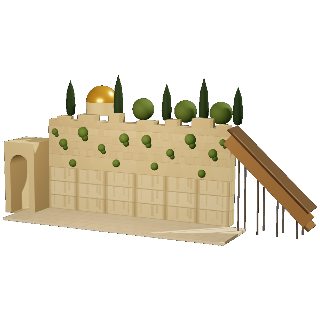
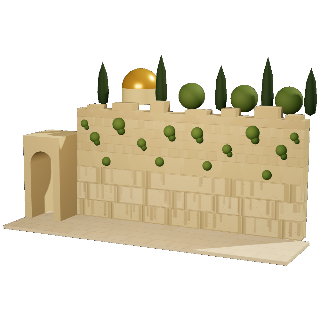
Jerusalem: the Holy Sepulchre on the Cardo; Western Wall stones and no bridge; finished monuments turn to face you
The Church of the Holy Sepulchre replaces the Tower of David as the
Cardo's monument, so each of the city's three faiths has its central
site (Dan, 27 Sept). Crusader front with twin doors and windows, the
ladder on the ledge, bell tower, and the Rotunda and Katholikon domes.
Its three facts are a DRAFT awaiting sign-off (JERUSALEM-FACTS-DRAFT.md).
The Tower of David stays defined for a fourth street, and on the Jaffa
Road skyline.

Western Wall: the Mughrabi bridge and its scaffolding are gone, and the
Herodian stones are large and very large, of different lengths, so the
joints interweave from course to course instead of forming a grid.

Every monument: once built, the view swings round to the front during
the celebration, whichever way it was left while building.

Changed region(s): [[0.0, 0.1562, 1.0, 0.8438]]

diff --git a/src/puzzle/landmarks.js b/src/puzzle/landmarks.js
@@ -630,13 +630,14 @@ const defs = {
   // courses of small stones at the top. Caper plants hang from the joints.
   // Above, the trees of the platform, and the gold Dome of the Rock
   // glimpsed behind on the left, as in every photograph of the place.
-  // Wilson's Arch opens at the left end; the wooden Mughrabi bridge climbs
-  // on its scaffolding on the right. No figures, partition or prayer notes.
+  // Wilson's Arch opens at the left end. Nothing modern: no bridge, no
+  // scaffolding, no figures, partition or prayer notes.
   kotel: [
-    B([0, 0.12, 3.2], [21, 0.24, 5.2], '#e4dac2', 'box', { tex: 'stone', tx: { cols: 14, rows: 4 } }),   // plaza
+    B([-1.3, 0.12, 3.2], [21.8, 0.24, 5.2], '#e4dac2', 'box', { tex: 'stone', tx: { cols: 14, rows: 4 } }),   // plaza
     // Herodian courses: three rows, each in two identical halves
+    // (each with its own layout of stones, so no two courses line up)
     ...[0, 1, 2].flatMap((row) => [-1, 1].map((side) => B([side * 4.5, 0.89 + row * 1.3, -row * 0.05],
-      [9, 1.3, 1.2], row === 1 ? '#dccfaa' : '#d6c9a2', 'box', { tex: 'herodian', tx: { cols: 3, rows: 1 } }))),
+      [9, 1.3, 1.2], row === 1 ? '#dccfaa' : '#d6c9a2', 'box', { tex: 'herodian', tx: { cols: 3, rows: 1, seed: row * 2 + (side > 0 ? 1 : 0) } }))),
     // the band of mid-sized stones, with the first caper plants
     ...[-1, 1].map((side) => B([side * 4.5, 4.74, -0.15], [9, 1.2, 1.2], '#cfc29c', 'box', {
       tex: 'stone', tx: { cols: 6, rows: 1 },
@@ -657,26 +658,6 @@ const defs = {
     }),
     // Wilson's Arch, opening at the left end of the plaza
     B([-10.6, 3.3, 1.2], [3.2, 6.6, 3.6], '#d2c49e', 'archvault'),
-    // the Mughrabi bridge: a covered wooden ramp on scaffolding, climbing
-    // from the plaza up to the gate at the top of the wall
-    // Seen side-on from the plaza it climbs diagonally from the right up to
-    // the gate at the top corner of the wall: deck, enclosed wooden sides,
-    // a roof, and the scaffolding it stands on.
-    B([12.8, 4.1, 0.8], [7.4, 6.8, 2.6], '#8a6a44', 'group', {
-      adorn: (() => {
-        const run = 7.0, rise = 6.4, th = -Math.atan2(rise, run), len = Math.hypot(run, rise);
-        const deckY = (x) => -x * (rise / run);          // deck height at x, relative
-        return [
-          B([0, 0, 0], [len, 0.22, 2.0], '#7a5c3a', 'box', { rotZ: th }),                      // deck
-          B([0, 1.5, 0], [len, 0.16, 2.4], '#5a4632', 'box', { rotZ: th }),                    // roof
-          B([0, 0.75, 1.0], [len, 1.3, 0.1], '#9a7a50', 'box', { rotZ: th }),                  // side facing the plaza
-          ...[-2.6, -0.9, 0.8, 2.5].flatMap((x) => [-0.8, 0.8].map((z) => {
-            const top = deckY(x) - 0.1, h = top + 4.0;                                        // down to the plaza
-            return B([x, top - h / 2, z], [0.14, h, 0.14], '#6e6e6e', 'cyl');
-          })),
-        ];
-      })(),
-    }),
     // above and behind: the trees of the platform, and the gold dome
     B([0, 10.0, -2.6], [20, 2.8, 3.0], '#c8b98e', 'group', {
       adorn: [
@@ -748,6 +729,72 @@ const defs = {
         B([0, 2.0, 0], [1.3, 1.3, 0.2], '#e8dcb4', 'torus', { rotX: Math.PI / 2 }),
         B([0, 3.9, 0], [0.9, 1.3, 0.9], '#d6c8a0', 'lathe', { profile: [[1, 0], [0.95, 0.4], [0.55, 0.85], [0, 1]] }),
         B([0, 5.0, 0], [0.1, 0.9, 0.1], '#f0e4bc', 'cyl', { metal: 1, em: '#ffd9a0', emI: 0.4 }),
+      ],
+    }),
+  ],
+  // The Church of the Holy Sepulchre, from its courtyard: the Crusader front
+  // of two storeys, twin arched doors below (the right one walled up) and
+  // twin arched windows above; the wooden ladder that has stood on the ledge
+  // over the entrance since at least the 1700s; the bell tower on the left,
+  // which lost its top storey long ago; and behind, the two grey domes, the
+  // great Rotunda over the tomb and the smaller Katholikon, each with its
+  // cross. Its facts are a draft awaiting Dan's sign-off (src/facts.js).
+  holysepulchre: [
+    B([0, 0.12, 3.0], [15, 0.24, 5.6], '#d8ccae', 'box', { tex: 'stone', tx: { cols: 10, rows: 4 } }),   // courtyard
+    // the mass of the church behind its front
+    B([0.5, 4.6, -5.6], [12, 9.2, 10.4], '#d0c29c', 'box', { tex: 'stone', tx: { cols: 9, rows: 8 } }),
+    // front, lower storey: the twin doorways
+    B([0, 2.6, 0], [9, 5.0, 1.2], '#dccfaa', 'extrude', {
+      outline: [[-0.5, -0.5], [0.5, -0.5], [0.5, 0.5], [-0.5, 0.5]],
+      holes: [{ x: -0.2, y: -0.08, w: 0.22, h: 0.8, arch: true }, { x: 0.2, y: -0.08, w: 0.22, h: 0.8, arch: true }],
+      adorn: [
+        B([-1.8, -0.4, -0.3], [1.9, 3.8, 0.2], '#4a3424'),                       // the open door, dark wood
+        B([1.8, -0.4, -0.2], [1.9, 3.8, 0.4], '#cbbd96', 'box', { tex: 'stone', tx: { cols: 2, rows: 4 } }),   // walled up
+      ],
+    }),
+    B([0, 5.35, 0.1], [9.4, 0.5, 1.5], '#e6dab8'),                              // the ledge between storeys
+    // front, upper storey: twin arched windows, and the ladder
+    B([0, 7.6, 0], [9, 4.0, 1.2], '#dccfaa', 'extrude', {
+      outline: [[-0.5, -0.5], [0.5, -0.5], [0.5, 0.5], [-0.5, 0.5]],
+      holes: [{ x: -0.2, y: 0.02, w: 0.18, h: 0.72, arch: true }, { x: 0.2, y: 0.02, w: 0.18, h: 0.72, arch: true }],
+      adorn: [
+        ...[-1.8, 1.8].map((x) => B([x, -0.1, -0.35], [1.6, 2.8, 0.2], '#2e3a48')),   // glass behind
+        // the ladder, leaning under the right-hand window
+        B([2.6, -1.05, 1.0], [0.9, 1.9, 0.5], '#7a5a36', 'group', {
+          rotX: -0.25,
+          adorn: [
+            ...[-0.36, 0.36].map((x) => B([x, 0, 0], [0.08, 1.9, 0.08], '#7a5a36')),
+            ...[-0.7, -0.3, 0.1, 0.5].map((y) => B([0, y, 0], [0.72, 0.06, 0.06], '#7a5a36')),
+          ],
+        }),
+      ],
+    }),
+    // the bell tower on the left, and its upper storey with arched openings
+    B([-6.2, 5.0, -0.4], [3.0, 10.0, 3.0], '#d4c6a0', 'box', { tex: 'stone', tx: { cols: 3, rows: 9 } }),
+    B([-6.2, 11.6, -0.4], [2.8, 3.2, 2.8], '#dccfaa', 'box', {
+      tex: 'stone', tx: { cols: 3, rows: 3 },
+      adorn: [[0, 1.42], [0, -1.42], [1.42, 0], [-1.42, 0]].map(([x, z]) => B([x, 0, z], [x ? 0.1 : 1.0, 1.8, z ? 0.1 : 1.0], '#2a2620')),
+    }),
+    // a chapel on the right with its small dome
+    B([6.2, 2.8, -0.6], [3.2, 5.6, 3.2], '#d4c6a0', 'box', {
+      tex: 'stone', tx: { cols: 3, rows: 5 },
+      adorn: [B([0, 2.8, 0], [2.4, 1.3, 2.4], '#9aa0a6', 'dome')],
+    }),
+    // the Katholikon's drum and dome, with its cross
+    B([3.0, 10.4, -5.0], [4.2, 2.2, 4.2], '#d8caa4', 'cyl', { tex: 'win', tx: { cols: 10, rows: 1 } }),
+    B([3.0, 11.5, -5.0], [4.4, 2.4, 4.4], '#8e949a', 'dome', {
+      adorn: [
+        B([0, 2.5, 0], [0.12, 1.1, 0.12], '#d8c070', 'box', { metal: 1 }),
+        B([0, 2.75, 0], [0.6, 0.1, 0.1], '#d8c070', 'box', { metal: 1 }),
+      ],
+    }),
+    // the great Rotunda over the tomb: drum, grey dome, lantern and cross
+    B([-3.4, 10.6, -8.0], [8.2, 2.8, 8.2], '#d8caa4', 'cyl', { tex: 'win', tx: { cols: 18, rows: 1 } }),
+    B([-3.4, 12.0, -8.0], [8.6, 5.0, 8.6], '#9298a0', 'dome', {
+      adorn: [
+        B([0, 4.6, 0], [1.2, 1.0, 1.2], '#d8caa4', 'cyl'),
+        B([0, 5.7, 0], [0.14, 1.4, 0.14], '#d8c070', 'box', { metal: 1 }),
+        B([0, 6.0, 0], [0.8, 0.12, 0.12], '#d8c070', 'box', { metal: 1 }),
       ],
     }),
   ],

diff --git a/src/puzzle/puzzle.js b/src/puzzle/puzzle.js
@@ -15,7 +15,7 @@ const CITY_OF = {
   bigben: 'london', towerbridge: 'london', eye: 'london',
   colosseum: 'rome', trevi: 'rome', pantheon: 'rome',
   ggbridge: 'sf', coit: 'sf', paintedladies: 'sf',
-  kotel: 'jerusalem', domerock: 'jerusalem', towerdavid: 'jerusalem',
+  kotel: 'jerusalem', domerock: 'jerusalem', towerdavid: 'jerusalem', holysepulchre: 'jerusalem',
 };
 // Plaza floors deliberately contrast their monuments. Every landmark in the
 // game is a warm stone/limestone/bronze hero, and every city theme lights the
@@ -200,31 +200,42 @@ function makeBlockTexture(def) {
       return;
     }
     if (tex === 'herodian') {
-      // Herodian masonry: very large stones, each with a smooth, slightly
-      // raised face inside a recessed drafted margin (the chiselled border
-      // that marks the Western Wall's lowest courses). One per cell.
+      // Herodian masonry: large and very large stones of different lengths
+      // laid in courses, so their joints fall at different places from one
+      // course to the next and interweave rather than lining up in a grid.
+      // Each stone has a smooth, slightly raised face inside a recessed
+      // drafted margin, uneven edges, and two thousand years of weather.
+      // tx.cols is roughly how many stones span the piece; tx.seed gives
+      // every course its own layout.
       baseFill(g, S, c);
-      const cols = tx.cols || 1, rows = tx.rows || 1;
-      const w = S / cols, h = S / rows, m = Math.max(7, Math.min(w, h) * 0.09);
-      for (let j = 0; j < rows; j++) for (let i = 0; i < cols; i++) {
-        const x = i * w, y = j * h;
-        g.fillStyle = shade(c, -0.22); g.fillRect(x + 2, y + 2, w - 4, h - 4);      // margin
-        g.fillStyle = shade(c, 0.06 + dRand(i + j * 7, 5) * 0.05);
-        g.fillRect(x + m, y + m, w - 2 * m, h - 2 * m);                             // boss
-        g.fillStyle = shade(c, 0.2); g.fillRect(x + m, y + m, w - 2 * m, 3);
-        g.fillStyle = shade(c, -0.32); g.fillRect(x + m, y + h - m - 3, w - 2 * m, 3);
-        g.strokeStyle = shade(c, -0.42); g.lineWidth = 3; g.strokeRect(x + 1, y + 1, w - 2, h - 2);
-        // two thousand years of weather: darker streaks running down from
-        // the joints, and pitting across the face
-        for (let k = 0; k < 3; k++) {
-          const sx = x + m + dRand(i * 5 + j * 11 + k, 8) * (w - 2 * m);
-          g.fillStyle = `rgba(60,48,30,${0.08 + dRand(i + k, 9) * 0.1})`;
-          g.fillRect(sx, y + m, 3 + dRand(k, i + 2) * 6, (h - 2 * m) * (0.4 + dRand(j + k, 3) * 0.6));
+      const rows = tx.rows || 1, seed = (tx.seed || 0) * 31 + 7;
+      const h = S / rows;
+      for (let j = 0; j < rows; j++) {
+        const y = j * h;
+        let x = -dRand(seed + j, 1) * (S / (tx.cols || 3)) * 0.8;
+        let k = 0;
+        while (x < S) {
+          const len = (S / (tx.cols || 3)) * (0.6 + dRand(seed * 13 + j * 7 + k, 2) * 0.9);
+          const t0 = dRand(seed + k, 3) * 5, t1 = dRand(seed + k, 4) * 5;    // uneven edges
+          const m = Math.max(7, Math.min(len, h) * 0.1);
+          g.fillStyle = shade(c, -0.24); g.fillRect(x + 2, y + 2 + t0, len - 4, h - 4 - t0 - t1);   // margin
+          g.fillStyle = shade(c, 0.03 + dRand(seed + k * 3 + j, 5) * 0.08);
+          g.fillRect(x + m, y + m + t0, len - 2 * m, h - 2 * m - t0 - t1);                          // boss
+          g.fillStyle = shade(c, 0.2); g.fillRect(x + m, y + m + t0, len - 2 * m, 3);
+          g.fillStyle = shade(c, -0.34); g.fillRect(x + m, y + h - m - t1 - 3, len - 2 * m, 3);
+          for (let q = 0; q < 3; q++) {                                    // streaks
+            const sx = x + m + dRand(seed + k * 5 + q, 8) * (len - 2 * m);
+            g.fillStyle = `rgba(60,48,30,${0.08 + dRand(k + q, seed) * 0.1})`;
+            g.fillRect(sx, y + m + t0, 3 + dRand(q, k + 2) * 6, (h - 2 * m) * (0.4 + dRand(j + q, k) * 0.6));
+          }
+          for (let q = 0; q < 22; q++) {                                   // pitting
+            g.fillStyle = `rgba(40,30,18,${0.1 + dRand(q, seed + k) * 0.15})`;
+            g.fillRect(x + m + dRand(q, k + 7) * (len - 2 * m), y + m + t0 + dRand(q + 3, k) * (h - 2 * m - t0 - t1), 3, 3);
+          }
+          g.fillStyle = shade(c, -0.45); g.fillRect(x, y, 3, h);          // the joint
+          x += len; k++;
         }
-        for (let k = 0; k < 26; k++) {
-          g.fillStyle = `rgba(40,30,18,${0.1 + dRand(k, i * 3 + j) * 0.15})`;
-          g.fillRect(x + m + dRand(k, i + 7 * j) * (w - 2 * m), y + m + dRand(k + 3, i + j) * (h - 2 * m), 3, 3);
-        }
+        g.fillStyle = shade(c, -0.45); g.fillRect(0, y + h - 3, S, 3);
       }
       return;
     }

diff --git a/src/facts.js b/src/facts.js
@@ -239,6 +239,17 @@ export const MONUMENT_FACTS = {
       { big: '8', unit: 'sides', label: 'a perfect octagon', text: 'The plan is a perfect octagon around the rock at its centre, its exterior clad in Ottoman tilework added under Suleiman in the 1550s.' },
       { text: 'It is not the al-Aqsa Mosque. They are two separate buildings on the same compound — the compound itself stands on the Temple Mount (Jewish tradition) and Haram al-Sharif, "the Noble Sanctuary" (Islamic tradition). The Dome of the Rock is the gold-domed octagon; al-Aqsa is the silver-domed mosque to its south. The two are very widely confused.' },
     ] },
+  // DRAFT, awaiting Dan's sign-off (docs/JERUSALEM-FACTS-DRAFT.md, "Church of
+  // the Holy Sepulchre"). Architectural and historical, each community
+  // described in its own terms. No height chart: not sourced.
+  holysepulchre: {
+    facts: [
+      { big: '335', unit: 'CE', label: 'first church consecrated', text: 'The first church here was built on the orders of Emperor Constantine and consecrated in 335. Christians revere the site as the place of the crucifixion and burial of Jesus.' },
+      { big: '6', unit: 'communities', label: 'share the church', text: 'Six Christian communities share the building — Greek Orthodox, Roman Catholic, Armenian, Coptic, Syriac and Ethiopian — under an arrangement called the Status Quo, set down by the Ottoman authorities in the 1750s and 1850s.' },
+      { text: 'The wooden ladder on the ledge above the entrance has stood there since at least the 1700s, because moving it needs every community to agree. For centuries two Muslim families have kept the key and opened the great door each morning.' },
+    ] },
+  // Not on a street at the moment (the Holy Sepulchre is the Cardo's
+  // monument); kept for a fourth Jerusalem street.
   towerdavid: {
     facts: [
       { big: '1655', label: 'the minaret', text: 'The tower everyone photographs is an Ottoman minaret, added more than 2,500 years after David.' },

diff --git a/src/cities/themes.js b/src/cities/themes.js
@@ -297,7 +297,10 @@ export const CITIES = [
     // A city bus in green and white. Deliberately no operator name or logo:
     // every brand in the game is fictional (docs/COMPLIANCE.md).
     vehicle: 'citybus',
-    landmarks: ['kotel', 'domerock', 'towerdavid'],
+    // One central site for each of the city's three faiths. The Tower of
+    // David (defined in landmarks.js, with its facts) waits for a fourth
+    // street; it is the skyline at the end of Jaffa Road meanwhile.
+    landmarks: ['kotel', 'domerock', 'holysepulchre'],
     levels: [
       { // Jaffa Road — the seam between old and new: the light-rail spine
         // (rails and overhead wires), stone frontage near the Old City end.
@@ -339,6 +342,7 @@ export const LANDMARK_NAMES = {
   colosseum: 'Colosseum', trevi: 'Trevi Fountain', pantheon: 'Pantheon',
   ggbridge: 'Golden Gate Bridge', coit: 'Coit Tower', paintedladies: 'Painted Ladies',
   kotel: 'The Western Wall', domerock: 'The Dome of the Rock', towerdavid: 'Tower of David',
+  holysepulchre: 'Church of the Holy Sepulchre',
 };
 
 // Merge a street's overrides over its city base. `streetKey` uniquely tags

diff --git a/src/main.js b/src/main.js
@@ -1343,6 +1343,14 @@ function frame() {
   } else if (state === 'pwin-wait') {
     syncFetchButton();
     puzzle.update(dt);
+    // The finished monument swings round to face the player during the
+    // celebration, the shorter way round, however the view was left while
+    // building (device feedback: a finished Western Wall seen from behind).
+    const front = Math.round(cam.angle / (Math.PI * 2)) * Math.PI * 2;
+    cam.angle += (front - cam.angle) * Math.min(1, dt * 1.8);
+    const dist = cam.dist || fitPuzzleCamera();
+    camera.position.set(Math.sin(cam.angle) * dist, dist * 0.45, Math.cos(cam.angle) * dist);
+    camera.lookAt(0, cam.lookY || 6, 0);
   }
 
   renderer.render(scene, camera);

diff --git a/docs/JERUSALEM-FACTS-DRAFT.md b/docs/JERUSALEM-FACTS-DRAFT.md
@@ -116,3 +116,42 @@ card plus `facts.forEach` for the rest, so the array length is not fixed anywher
 because it scrolls. Worth an eye on the smallest screen once it is in, all the same.
 
 This clears the draft to move into `src/facts.js` per the note above.
+
+
+---
+
+## Church of the Holy Sepulchre — DRAFT for sign-off (27 September 2026)
+
+Added as the Cardo's monument in place of the Tower of David, so that each of
+the city's three faiths has its central site in the game (Dan, 27 September
+2026). The Cardo led to this church in Byzantine Jerusalem, and the Madaba Map
+in the approved Cardo facts shows the two together. The Tower of David keeps
+its model and facts for a possible fourth street, and stays on the skyline at
+the end of Jaffa Road.
+
+Same editorial rules as the rest of this document: architectural and
+historical, each community described in the terms it uses of itself, no claims
+about ownership or status.
+
+| # | Stat | Text |
+|---|---|---|
+| 1 | **335 CE** — first church consecrated | The first church here was built on the orders of Emperor Constantine and consecrated in 335. Christians revere the site as the place of the crucifixion and burial of Jesus. |
+| 2 | **6 communities** — share the church | Six Christian communities share the building — Greek Orthodox, Roman Catholic, Armenian, Coptic, Syriac and Ethiopian — under an arrangement called the Status Quo, set down by the Ottoman authorities in the 1750s and 1850s. |
+| 3 | — | The wooden ladder on the ledge above the entrance has stood there since at least the 1700s, because moving it needs every community to agree. For centuries two Muslim families have kept the key and opened the great door each morning. |
+
+Notes for review:
+- **335**: the consecration date of Constantine's basilica. Most of the
+  standing church is the Crusader rebuilding, dedicated in 1149; the fact says
+  "the first church" deliberately.
+- **Six communities**: the Greek Orthodox, Roman Catholic (Franciscan) and
+  Armenian Apostolic churches are the three principal custodians; the Coptic,
+  Syriac and Ethiopian Orthodox churches have smaller roles. The Status Quo
+  was fixed by Ottoman decrees of 1757 and 1852.
+- **The ladder**: shown in an engraving of 1728 and mentioned in 1757, hence
+  "since at least the 1700s". **The key**: held by the Joudeh family and the
+  door opened by the Nusseibeh family, a custom reported for centuries. The
+  fact names neither family.
+- No height comparison: no sourced figure for the building's height was used.
+
+Status: **awaiting Dan's sign-off.** The facts are in `src/facts.js` marked
+DRAFT so the monument can be built and played meanwhile.
